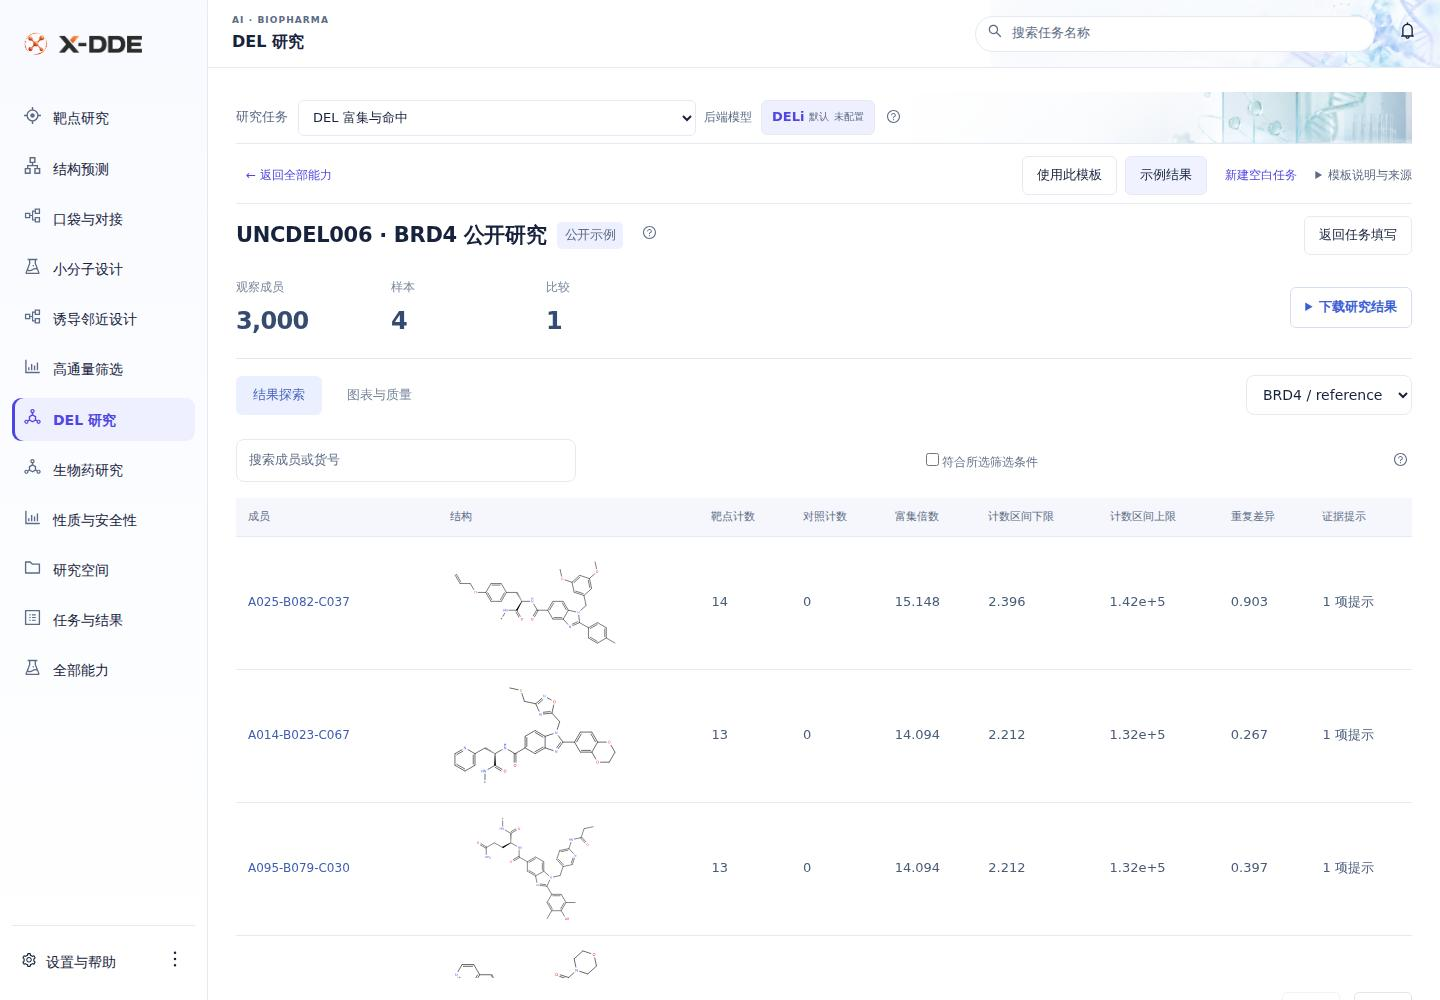
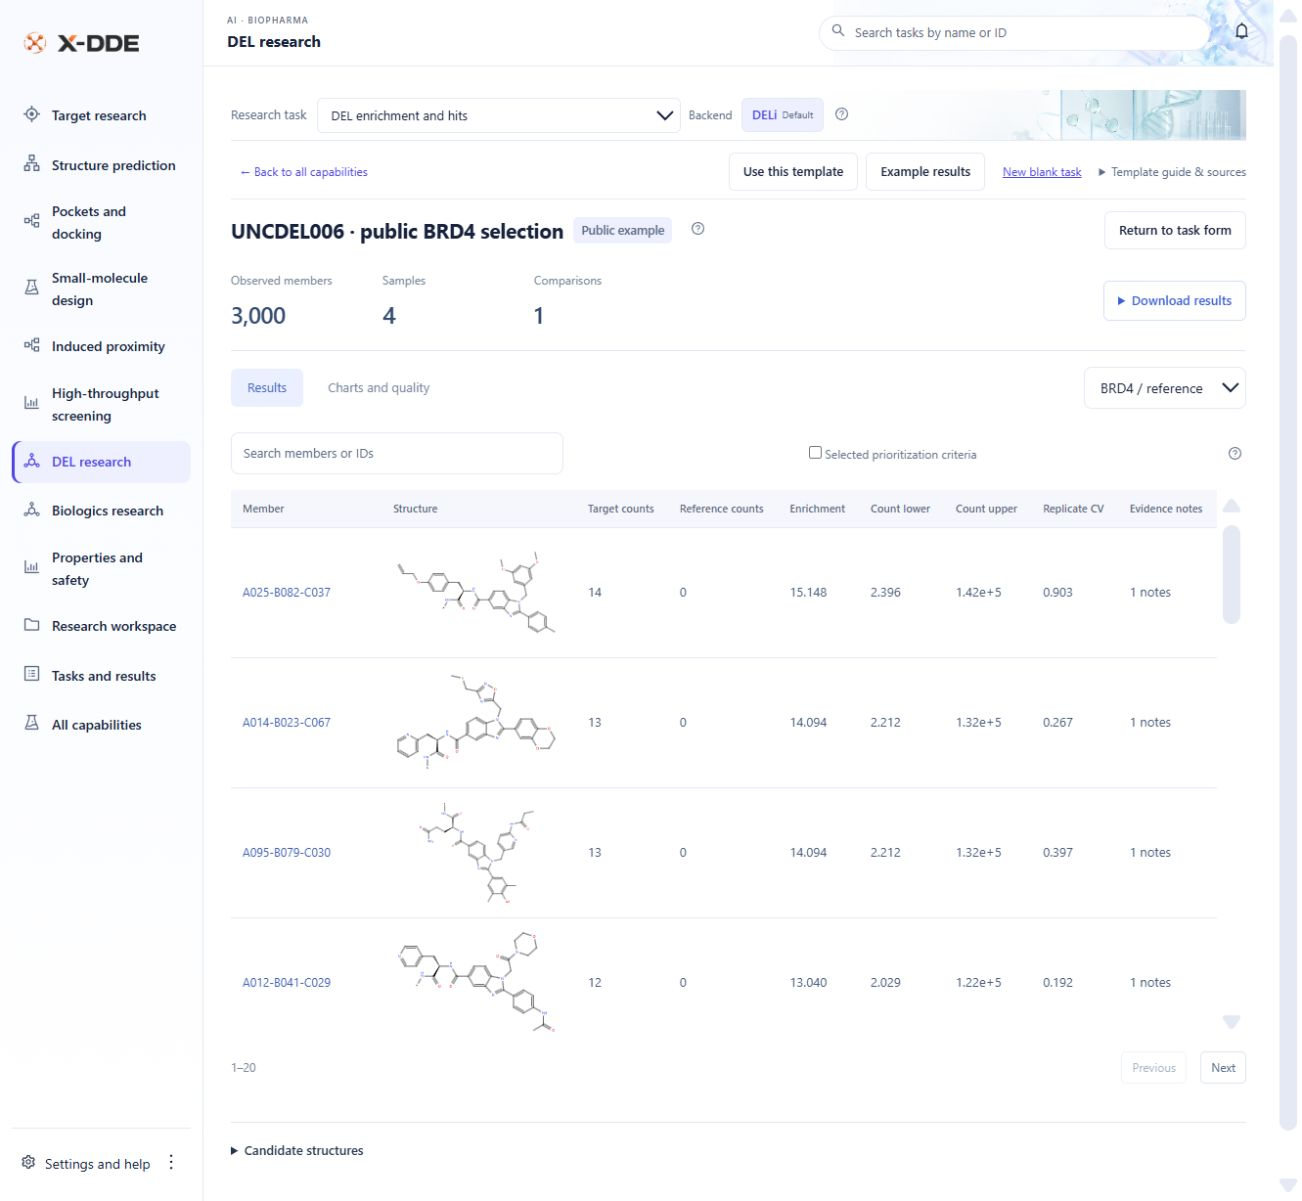
docs: complete bilingual overview with real English interface captures

diff --git a/README.en.md b/README.en.md
@@ -1,0 +1,183 @@
+# X-DDE
+
+[中文](README.md) · **English**
+
+**A visual research platform for early drug discovery.**
+
+Connect scientific tools, models and research files into usable research workflows. Start with targets, structures and pockets; explore small molecules, biologics, high-throughput screening and DNA-encoded libraries. Prepare tasks, inspect results, revise materials and continue the next step in one workspace.
+
+[Get started](#get-started) · [Actual interface](#what-the-interface-looks-like) · [Research capabilities](#what-you-can-do) · [Architecture](#how-the-architecture-works) · [Latest release](https://github.com/Victor-Xu-1/X-DDE/releases) · [Apache-2.0](LICENSE)
+
+## Why X-DDE
+
+Drug discovery already has many excellent open-source tools. The friction often lies between them: difficult environments, different parameters and file formats, and outputs that are hard to pass to the next tool. Researchers also need to distinguish an experimental reference, a model prediction and an input template that has not been executed.
+
+X-DDE brings these handoffs into the platform. Medicinal chemists and biologics researchers work around research questions, while computational experts retain control over methods, settings and interpretation.
+
+| Common research problem | How X-DDE addresses it | What changes for researchers |
+| --- | --- | --- |
+| Separate installations and conflicting dependencies, models or data | Components organized by research use; isolated scientific environments | One place to choose storage, inspect readiness and maintain components |
+| Dozens of parameters before the purpose is clear | One visible step at a time, recommended choices, explanations and expert controls | Answer the research question before reviewing the settings that matter |
+| Repeatedly moving structures, molecules and sequences between tools | Shared research assets, explicit input versions and direct handoffs | Use pockets for generation; pass molecules into properties and docking |
+| Results presented as files, numbers or technical logs | Linked candidate tables, 2D / 3D structures, sequences and analysis charts | Select a candidate, inspect its structure, adjust the view and download results |
+| Original materials and result origins become difficult to track | Preserve source files, derived versions and task relationships | Revise, compare, return to originals and continue the research |
+| Toy examples or demonstration jobs clutter personal history | Public research templates inside each task, with computed outcomes presented separately | Learn inputs and result interpretation from real cases, then submit a new personal task |
+
+## What you can do
+
+The current catalogue has **71 task entries**, organized by research workflow. Drug-modality filters overlap: biologics, chemical drugs, antibodies, proteins, peptides, small molecules, RNA and DNA. Execution depends on the selected scientific environment, model resources, input and hardware.
+
+| Research area | Supported work | Outputs or next steps |
+| --- | --- | --- |
+| **Target research** | Disease associations, target evidence, canonical sequences, public structures and measured-activity records | Source-linked research materials for structure and candidate work |
+| **Structure prediction** | Protein and complex prediction, structure preparation, receptor alignment and comparison | Structures, native confidence, alignment results and downloadable files |
+| **Pockets and binding modes** | Pocket discovery, docking and rescoring, receptor/state exploration, interactions and pose quality | Candidate sites, multiple poses, native scores and contact analysis |
+| **Small-molecule design** | Pocket-conditioned generation, analogues and local design, chemical states and unbound conformers | New molecules or derived versions for properties, docking or screening |
+| **Biologics research** | Antibody numbering and CDRs, framework proposals, protein/peptide design, sequence scoring, folding and interface review | Sequences, CDR positions, structural candidates and interface results |
+| **Induced proximity** | Ternary assembly hypotheses and related structural exploration of degraders and bifunctional molecules | Candidate assemblies and traceable structural hypotheses |
+| **High-throughput screening** | Supplier-file import, library preparation, reusable sharded indexes, pocket-conditioned retrieval, diversity selection and shortlisted docking | Candidates retaining library/supplier identifiers and actual poses |
+| **DEL research** | Library definitions, member structures, read decoding, UMI/counts, enrichment and controls, building-block series, research models and handoffs | Counts, enrichment evidence, series charts, candidate structures and experimental follow-up |
+| **Properties and early safety** | Descriptors, 41 model endpoints, structural alerts, scaffold representatives and models from experimental data | Molecular tables, native units, selected candidates and reusable molecules |
+
+RNA / DNA support currently focuses on structural inputs, complex prediction and relevant feature preparation; it is not a general nucleic-acid drug-design system. Synthesis routes, retrosynthesis and wet-lab automation are outside the current scope.
+
+### Connect individual calculations into research paths
+
+```mermaid
+flowchart LR
+  T[Target evidence and materials] --> S[Prepare or predict structures]
+  S --> P[Choose a pocket]
+  P --> M[Generate or screen molecules]
+  M --> D[Binding poses and quality]
+  M --> A[Properties and early safety]
+  D --> C[Compare and hand off candidates]
+  A --> C
+  S --> B[Protein or antibody sequence design]
+  B --> F[Folding and interface analysis]
+  F --> C
+  R[DEL reads and library definitions] --> E[Decode, count and enrich]
+  E --> M
+```
+
+These are connected research paths. Each handoff selects actual materials and versions; the researcher reviews the plan before running the corresponding task.
+
+## What the interface looks like
+
+The images below are **actual English-language pages from the running v0.4.49 software**, using public research inputs and retained native results. Structures, tables, molecules and values come directly from the application. No screenshot text has been repainted or translated in the image. Architecture illustrations are separate explanatory visuals.
+
+### 1. Prepare tasks like a questionnaire
+
+Choose a purpose → provide materials → select settings → review and submit → inspect results. Only the current step is visible, with Next at the lower right. Guided mode offers recommended choices; expert mode exposes scientific settings. New tasks start with new materials, and **Historical files** is an explicit choice.
+
+![Actual English questionnaire: research-purpose choices for the BRD4–JQ1 template](docs/images/guided-task.jpg)
+
+**Use this template** fills real research inputs; **Example results** displays retained outputs inside the module. Loading a template does not start computation or add demonstration jobs to personal task history.
+
+### 2. Inspect structures alongside candidate tables
+
+Select a table row to inspect its actual structure, chains, ligand, pocket and confidence. Rotate, zoom, select atoms/residues, adjust display, inspect surfaces and download views. Original scientific files remain separately downloadable.
+
+![Actual English BRD4–JQ1 native structure result and ligand/pocket preview](docs/images/structure-and-pocket.jpg)
+
+This is a model result from the public BRD4–JQ1 case. Model confidence is not measured binding activity. Geometric distances are not automatically hydrogen bonds, interaction energies or affinity.
+
+### 3. Read properties and screening results through molecular structures
+
+2D structures, candidate metrics and 3D molecules are linked. Properties retain original endpoints and units. Screening retains library identifiers and retrieval scores; shortlisted candidates can continue into independent docking.
+
+![Actual English ABL inhibitor comparison with 2D structures, predicted properties and a 3D molecule](docs/images/molecule-properties.jpg)
+
+![Actual English BRD4 pocket-conditioned screening and the selected unbound conformer](docs/images/screening-candidates.jpg)
+
+The screening case uses 177 public research molecules. The displayed 3D structure is an unbound conformer, not a predicted binding pose or a supplier-wide/billion-scale performance benchmark.
+
+### 4. Make DEL and biologics materials readable
+
+DEL results retain member structures, target/control counts, enrichment intervals and replicate information. Antibody templates provide actual variable-domain sequences, adjustable CDR positions and reference-structure inspection. **Setup example** opens these prepared materials without starting a design run.
+
+![Actual English UNCDEL006–BRD4 enrichment and member-structure results](docs/images/del-enrichment.jpg)
+
+![Actual English trastuzumab–HER2 design input template with variable-domain sequence and CDRs](docs/images/antibody-template.jpg)
+
+The antibody image shows a validated **input template**, without a new design run. Experimental reference structures, supplied materials and newly generated model outputs retain distinct identities.
+
+## How the architecture works
+
+**X-DDE owns the frontend and platform backend. Scientific software such as OpenDDE, Boltz-2, DiffSBDD and GNINA runs in independent integrated environments.**
+
+The platform manages projects, tasks, workflows, research assets, environment deployment and result presentation. Each tool connects through an explicit adapter and retains its native methods, models, dependencies and license. The absence of one engine does not define the availability of the whole platform.
+
+![X-DDE architecture: research workspace, platform backend, isolated scientific environments and lineage](docs/images/platform-architecture.png)
+
+| Layer | Responsibilities | Purpose |
+| --- | --- | --- |
+| **Research workspace** | Guided tasks, method selection, 2D / 3D / sequence inspection, comparisons and downloads | Let researchers work with research questions and visible results |
+| **X-DDE platform backend** | Validated APIs, tasks/workflows, asset versions, deployment and result ownership | Give multiple tools one task and data authority |
+| **Execution and deployment adapters** | Validate native inputs, invoke real programs, prepare isolated environments and resources | Distinguish installation from valid completed computation |
+| **Independent scientific environments** | Each tool's scientific programs, models, dependencies and native execution | Isolate dependencies and support suitable alternatives within a task |
+| **Assets and lineage** | Source materials, derived versions, input/output relationships and history | Reuse exact materials, retain originals and trace changes |
+
+The execution path is **task form → X-DDE API → one persistent task queue and backend router → native program → platform assets and results**. Installation uses deployment adapters; scientific work uses execution adapters. The platform does not copy a competing workbench or scientific-agent loop.
+
+### Revise assets and continue the next step
+
+![How research assets connect small-molecule, biologics and DEL workflows](docs/images/connected-research-en.png)
+
+| Existing material or result | Possible next step |
+| --- | --- |
+| Canonical sequences, public structures or predicted models | Structure preparation, pockets, protein design and interface analysis |
+| Confirmed receptors and pockets | Pocket-conditioned generation, fast screening and bounded docking |
+| New molecules, library candidates or derived molecular versions | Properties, chemical states/conformers, docking and pose quality |
+| Protein or antibody candidate sequences | Folding, sequence scoring, interface comparison and further design |
+| DEL enriched members and building-block series | Structural handoff, properties/docking and experimental follow-up |
+
+Edits create derived versions while source files remain available. Distances, confidence, docking scores and experimental activity are interpreted with their own meanings and units.
+
+Large libraries use streaming preparation, sharded indexes and bounded candidate retrieval. The frontend reads results by page to control memory use. Pocket-conditioned retrieval precedes slower pose computation on shortlisted candidates. See [screening and DEL methods, scale and licensing](docs/design/screening-and-del.md).
+
+## Get started
+
+Download `install.ps1` for Windows or `install.sh` for Linux / WSL from [GitHub Releases](https://github.com/Victor-Xu-1/X-DDE/releases). Release packages contain the built frontend; users do not need Node.js or a frontend build.
+
+| System | Install | Start |
+| --- | --- | --- |
+| Windows PowerShell | `powershell -NoProfile -ExecutionPolicy Bypass -File .\install.ps1` | `X-DDE UI` |
+| Linux / WSL | `bash install.sh`, then follow the command-path instructions | `xdde dashboard` |
+
+Use `xdde stop` to stop, `xdde status` to inspect status, and `xdde restart` to restart. Windows commands and startup arguments support case compatibility. Historical OpenDDE commands remain launcher aliases.
+
+Open **Settings and help → Installation and runtime**. Choose one installation directory and prepare components by research use. Environments remain independent. Installed components show Installed; maintenance contains repair, upgrade and uninstall. Large models and databases are selected as needed.
+
+![Actual English component management with one directory, research-use groups and native installation states](docs/images/component-management.jpg)
+
+The default Windows entry is `E:\WSL\apps\x-dde`. Linux environments, models and data follow the selected WSL storage and component directories; an E: launcher directory does not migrate an existing system disk. See the [user guide](docs/user-guide.md) for detailed installation, existing-environment connections, server access and recovery.
+
+## Current scope and scientific use
+
+- **Implemented interfaces/adapters**, **machine installation**, **native execution checks** and **scientific conclusions** are distinct. The 71 entries do not mean every machine already has all required resources.
+- Public cases include BRD4–JQ1, trastuzumab–HER2, ABL inhibitors, MZ1 ternary assemblies, RNA–TPP and public DEL research. Calculated cases retain native outputs; input-only examples are explicitly templates. See [case provenance and identities](docs/design/research-examples.md).
+- Supplier access uses official public downloads and legitimately obtained files. Catalogue entries are not possession of every commercial library, live inventory or procurement authorization. See [verified resources and coverage](docs/design/supplier-structure-files.md).
+- Models, weights, third-party data and outputs can have independent restrictions, including noncommercial research terms. X-DDE's code license does not replace them.
+- The current application is a single-user workbench with loopback access. Use controlled access or an SSH tunnel on servers rather than exposing it publicly without authentication.
+
+GPU inference, server throughput, scientific accuracy and experimental conclusions need evidence from their actual environments. Screenshots do not establish those conclusions. See [server acceptance](docs/server-acceptance.md) and [independent scientific environments](docs/scientific-upgrade.md).
+
+## Documentation
+
+| Question | Document |
+| --- | --- |
+| Installation, startup, existing environments and recovery | [User guide](docs/user-guide.md) |
+| Platform responsibilities, supported tools and native interfaces | [Architecture and capability mapping](docs/design/README.md) |
+| Fast screening, supplier libraries and DEL | [Screening and DEL](docs/design/screening-and-del.md) |
+| Ternary complexes and bifunctional molecules | [Induced proximity](docs/design/proximity-design.md) |
+| Real templates, public sources and native results | [Research cases](docs/design/research-examples.md) |
+| Native execution, hardware and scientific acceptance | [Server acceptance](docs/server-acceptance.md) |
+| Development, focused verification and publication numbering | [Development and release](docs/development.md) |
+
+This overview is available in full in both languages. Some detailed technical documents linked above currently use Chinese or mixed bilingual text.
+
+## License and provenance
+
+Original X-DDE code is [Apache-2.0](LICENSE), with attribution in [NOTICE](NOTICE). Integrated software, models, weights and data retain their own licenses. Historical MIT releases retain the terms distributed with those releases. The repository does not include private research data, model-service secrets or upstream large model weights.
+
+Architecture images are explanatory illustrations. Actual interface captures retain their displayed scientific content. See [image provenance](docs/images/README.md).

diff --git a/docs/images/README.md b/docs/images/README.md
@@ -4,9 +4,9 @@
 
 ## 实际软件页面
 
-这些图片直接来自 X-DDE **v0.4.49** 的真实 Chromium 页面检查，使用公开研究输入与保留的原生计算结果。截图未经重新绘制，没有加入虚构数字或生成的分子结构。
+这些图片重新截取自实际运行的 X-DDE **v0.4.49 英文界面**，使用公开研究输入与保留的原生计算结果。截图未经重新绘制，没有替换图片文字，也没有加入虚构数字或生成的分子结构。中英文介绍均引用同一组英文软件截图。
 
-来源：[提交 0d8d29e](https://github.com/Victor-Xu-1/X-DDE/commit/0d8d29e00b03462adef31d90bf359ad85b7646f4)、[浏览器检查](https://github.com/Victor-Xu-1/X-DDE/actions/runs/37722758677)、[对应发行版](https://github.com/Victor-Xu-1/X-DDE/releases/tag/v0.4.49)。图中的环境状态是截图服务的状态；查看已归档计算结果不等于再次运行模型。
+软件来源：[提交 0d8d29e](https://github.com/Victor-Xu-1/X-DDE/commit/0d8d29e00b03462adef31d90bf359ad85b7646f4)、[原生案例浏览器验证](https://github.com/Victor-Xu-1/X-DDE/actions/runs/37722758677)、[对应发行版](https://github.com/Victor-Xu-1/X-DDE/releases/tag/v0.4.49)。本组截图通过软件语言设置切换到 English 后直接采集。图中的安装状态是真实实例的状态；查看已归档结果不等于再次运行模型。
 
 | 图片 | 展示内容 | 身份 |
 | --- | --- | --- |
@@ -15,13 +15,19 @@
 | [molecule-properties.jpg](molecule-properties.jpg) | 三个 ABL 抑制剂的二维、三维与 ADMET 终点 | 归档的原生模型结果 |
 | [screening-candidates.jpg](screening-candidates.jpg) | 177 个公开研究分子的口袋条件检索 | 归档检索结果；所示三维为游离构象 |
 | [del-enrichment.jpg](del-enrichment.jpg) | UNCDEL006–BRD4 计数与富集 | 公开实验数据的原生分析结果 |
-| [antibody-template.png](antibody-template.png) | 曲妥珠单抗可变域序列与 CDR | 经校验的输入模板，未运行新的抗体设计 |
-| [component-management.png](component-management.png) | 统一安装目录和组件用途管理 | 实际环境管理界面，非所有组件均已安装 |
+| [antibody-template.jpg](antibody-template.jpg) | 曲妥珠单抗可变域序列与 CDR | 经校验的输入模板，未运行新的抗体设计 |
+| [component-management.jpg](component-management.jpg) | 统一安装目录和组件用途管理 | 实际环境管理界面，非所有组件均已安装 |
 
 各案例的原始材料与结果关系见[公开研究案例](../design/research-examples.md)。截图保留原始显示；哈希、源截图名称与类型记录在 [provenance.json](provenance.json)。
 
 ## 架构与研究流程插图
 
-`platform-architecture.png` 和 `connected-research.png` 使用内置 imagegen 制作，并按现有平台职责和输入输出关系人工检查。它们是架构说明，**不是运行页面或实验结果**。
+`platform-architecture.png`、`connected-research.png` 与英文流程图 `connected-research-en.png` 使用内置 imagegen 制作，并按现有平台职责和输入输出关系人工检查。它们是架构说明，**不是运行页面或实验结果**。
 
 架构图区分研究工作台、X-DDE 平台后端、执行/部署适配器和独立科学环境。研究流程图展示可衔接的研究材料；每一步仍需要实际输入、方案审阅和适用的原生工具，不表示所有流程自动执行或具有同样的科学有效性。
+
+## English
+
+All seven interface images are direct captures of the running v0.4.49 application after selecting **English** in its language settings. Both complete README versions use these English interface captures. Screenshot text and scientific content were not repainted or replaced. Native results, unbound conformers, input-only design examples and actual installation states remain distinct.
+
+The three infographic assets explain architecture and research flow; they are not application screenshots or experimental results. File identities, capture language and roles are recorded in [provenance.json](provenance.json).
